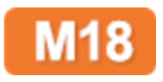
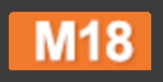
Added venom in movies

diff --git a/movies.html b/movies.html
@@ -5,6 +5,7 @@
     <meta http-equiv="X-UA-Compatible" content="IE=edge">
     <meta name="viewport" content="width=device-width, initial-scale=1.0">
     <title>Illumnas Cinema - Homepage</title>
+    <link rel="stylesheet" href="style.css">
     <style>
         .image{float:left;}
         .image img{height:350px;
@@ -12,45 +13,15 @@
         .movieblock {margin-bottom:250px}
         .moviedetails {margin-left: 300px;}
         section {width:80%;margin:auto}        
-        
-        .topbar{background-color: #333;
-            width:80%;margin:auto;
-            margin-bottom:100px;}
-        .logo {float:left;}
-        /* Add a black background color to the top navigation */
-        .navbar {
-        overflow: hidden;
-        }
-
-        /* Style the links inside the navigation bar */
-        .navbar a {
-        float: right;
-        color: #f2f2f2;
-        text-align: center;
-        padding: 14px 16px;
-        text-decoration: none;
-        font-size: 17px;
-        }
-
-        /* Change the color of links on hover */
-        .navbar a:hover {
-        background-color: #ddd;
-        color: black;
-        }
-
-        /* Add a color to the active/current link */
-        .navbar a.active {
-        background-color: #99aa04;
-        color: white;
-        }
     </style>
 </head>
 <body>
+    <!-- https://www.w3schools.com/howto/howto_js_topnav.asp -->
     <!-- header -->
     <div class="topbar">
         <div class="container">
             <div class="logo">
-                <a class="logoimg" href="index.html"><img src="images/logo.png" width=300 height=100>
+                <a class="logoimg" href="index.php"><img src="images/logo.png" width=300 height=100></a>
             </div>
             <div class="navbar">
                 <a href="about.html">ABOUT</a> 
@@ -156,7 +127,7 @@
                     <a href="movie_details.html"><img src="images/poster/The-Suicide-Squad.jpg" alt="Suicide Squad"></a>
                 </div>
                 <div class="moviedetails">
-                    <h1><b>The Suicide Squad</b><img src="images/SG_IMDA_M18.png" width=30 height=30></h1>
+                    <h1><b>The Suicide Squad  </b><img src="images/SG_IMDA_M18.png" width=50 height=30></h1>
                     <h3><b>Action/Adventure/Comedy | 2 Hr 12 Mins |  English (Subtitles : Chinese)</b></h3>
                     <p>
                         The government sends the most dangerous supervillains in the world -- Bloodsport, Peacemaker, King Shark,
@@ -171,7 +142,31 @@
 
                 </div>
             </div>
+            <div class="movieblock">
+                <div class="image">
+                    <a href="movie_details.html"><img src="images/poster/The-Suicide-Squad.jpg" alt="Venom"></a>
+                </div>
+                <div class="moviedetails">
+                    <h1><b>Venom: Let There Be Carnage</b><img src="images/pg13.png" width=30 height=30></h1>
+                    <h3><b>Action/Adventure | 1 Hr 37 Mins |  English (Subtitles : Chinese)</b></h3>
+                    <p>
+                        Eddie Brock struggles to adjust to his new life as the host of the alien symbiote Venom,
+                        which grants him super-human abilities in order to be a lethal vigilante.
+                        Brock attempts to ...
+                    </p>
+                    <a href="movie_details.html"><i>Details..</i></a>
+                    <br><br>
+                    <form action="movie.php" method="POST">
+                        <input type="submit" name="movie-button" value="Buy Ticket">
+                    </form>
+
+                </div>
+            </div>
 
     </section>
 
     </div>
+    <?php include "footer.php" ?>
+</body>
+</html>
+
